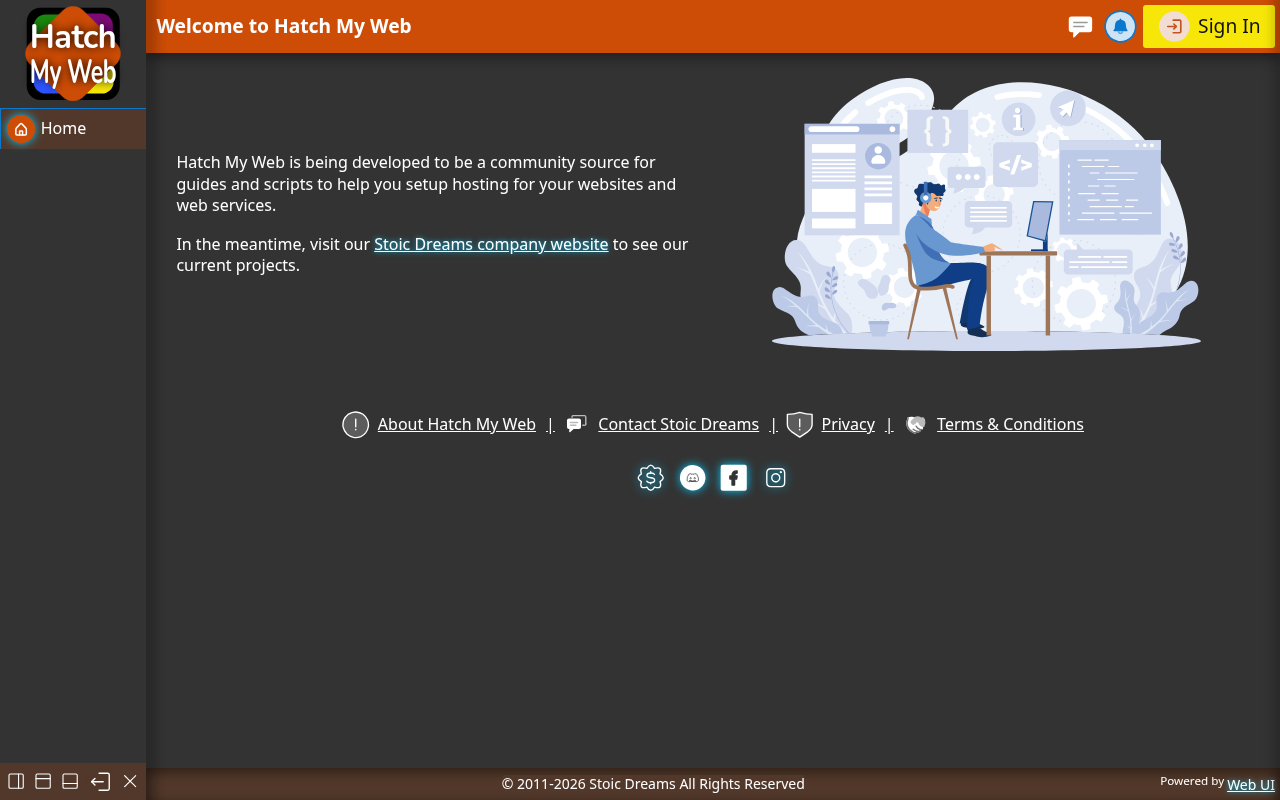
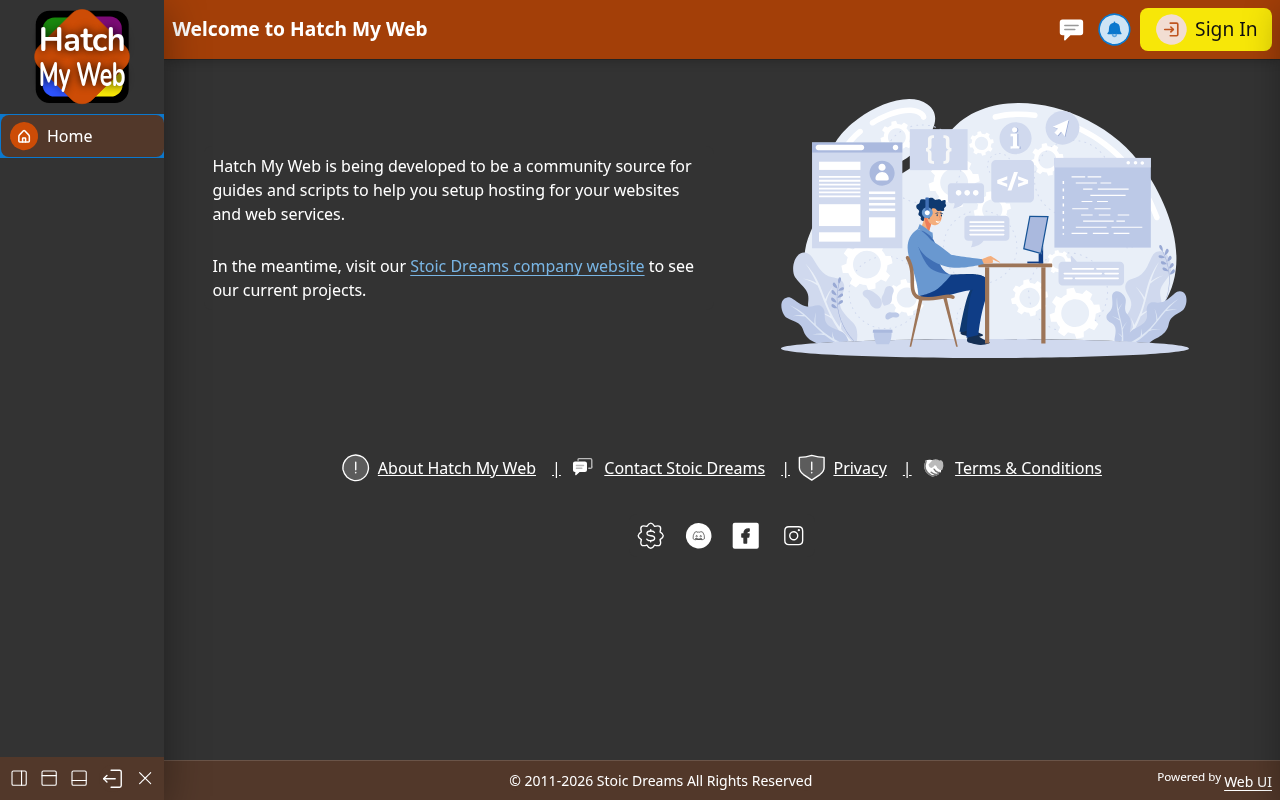
Load Web UI from the local MyFiCDN server on localhost Feature: On localhost the site loads Web UI from http://localhost:3180, and from cdn.myfi.ws everywhere else

diff --git a/webapp/root_files/service-worker.min.js b/webapp/root_files/service-worker.min.js
@@ -1,1 +1,1 @@
-self.addEventListener("install",t=>t.waitUntil(onInstall(t))),self.addEventListener("activate",t=>t.waitUntil(onActivate(t))),self.addEventListener("fetch",t=>{const e=new URL(t.request.url);e.protocol==="ipc:"||e.protocol==="tauri:"||e.hostname==="ipc.localhost"||e.hostname==="tauri.localhost"||e.hostname.startsWith("127")||e.hostname==="localhost"||t.request.url.startsWith("http")&&allowCache(t.request)&&t.respondWith(onFetch(t))});const currentVersion="0.1.18",cacheNamePrefix="offline-cache-",cacheName=`${cacheNamePrefix}${currentVersion}`;async function onInstall(t){self.skipWaiting()}async function onActivate(t){const e=await caches.keys();await Promise.all(e.filter(a=>a.startsWith(cacheNamePrefix)&&a!==cacheName).map(a=>caches.delete(a))),await self.clients.claim()}async function onFetch(t){const e=await caches.open(cacheName);let a;try{a=await fetch(applyCacheBusting(t.request))}catch(n){const c=await e.match(t.request);if(c)return c;throw n}return a.ok?(t.waitUntil(e.put(t.request,a.clone()).catch(()=>{})),a):await e.match(t.request)||a}function applyCacheBusting(t){try{const e=new URL(t.url);return e.searchParams.set("_",Date.now()),new Request(e.toString(),t)}catch{return t}}function allowCache(t){return!(t.method!=="GET"||t.mode==="navigate")}
+self.addEventListener("install",t=>t.waitUntil(onInstall(t))),self.addEventListener("activate",t=>t.waitUntil(onActivate(t))),self.addEventListener("fetch",t=>{const e=new URL(t.request.url);e.protocol==="ipc:"||e.protocol==="tauri:"||e.hostname==="ipc.localhost"||e.hostname==="tauri.localhost"||e.hostname.startsWith("127")||e.hostname==="localhost"||t.request.url.startsWith("http")&&allowCache(t.request)&&t.respondWith(onFetch(t))});const currentVersion="0.1.19",cacheNamePrefix="offline-cache-",cacheName=`${cacheNamePrefix}${currentVersion}`;async function onInstall(t){self.skipWaiting()}async function onActivate(t){const e=await caches.keys();await Promise.all(e.filter(a=>a.startsWith(cacheNamePrefix)&&a!==cacheName).map(a=>caches.delete(a))),await self.clients.claim()}async function onFetch(t){const e=await caches.open(cacheName);let a;try{a=await fetch(applyCacheBusting(t.request))}catch(n){const c=await e.match(t.request);if(c)return c;throw n}return a.ok?(t.waitUntil(e.put(t.request,a.clone()).catch(()=>{})),a):await e.match(t.request)||a}function applyCacheBusting(t){try{const e=new URL(t.url);return e.searchParams.set("_",Date.now()),new Request(e.toString(),t)}catch{return t}}function allowCache(t){return!(t.method!=="GET"||t.mode==="navigate")}

diff --git a/webapp/index.html b/webapp/index.html
@@ -28,15 +28,18 @@
 	<link rel="dns-prefetch" href="https://api.myfi.ws" />
 	<link rel="preconnect" href="https://cdn.myfi.ws">
 	<link rel="preconnect" href="https://api.myfi.ws">
-	<link href="https://cdn.myfi.ws/css/webui.min.css" rel="preload" as="style" />
-	<link href="https://cdn.myfi.ws/webui/loader.min.js" rel="preload" as="script" />
 
 	<link href="Logo.svg" rel="icon" type="image/svg+xml" sizes="any" />
 	<link rel="manifest" href="app.webmanifest">
 
-	<link href="https://cdn.myfi.ws/css/webui.min.css" rel="stylesheet" />
+	<script>
+		// Web UI loads from the local MyFiCDN server (MyFiCDN/PowerShell/RunLocal.ps1) when the site runs on localhost,
+		// so framework changes show before they are published, and from cdn.myfi.ws everywhere else.
+		window.webuiCdn = /^(localhost|127\.0\.0\.1|\[::1\])$/.test(location.hostname) ? 'http://localhost:3180/' : 'https://cdn.myfi.ws/';
+		document.write('<link href="' + webuiCdn + 'css/webui.min.css" rel="stylesheet" />');
+	</script>
 	<link data-trunk href="css/app.min.css" rel="css" />
-	<script src="https://cdn.myfi.ws/webui/loader.min.js"></script>
+	<script>document.write('<script src="' + webuiCdn + 'webui/loader.min.js"></' + 'script>');</script>
 
 	<link data-trunk href="root_files" rel="copy-dir" />
 	<link data-trunk href="d" rel="copy-dir" data-target-path="d" />

diff --git a/webapp/root_files/service-worker.js b/webapp/root_files/service-worker.js
@@ -20,7 +20,7 @@ self.addEventListener('fetch', event => {
     }
     event.respondWith(onFetch(event))
 });
-const currentVersion = '0.1.18';
+const currentVersion = '0.1.19';
 const cacheNamePrefix = 'offline-cache-';
 const cacheName = `${cacheNamePrefix}${currentVersion}`;
 async function onInstall(event) {

diff --git a/Docs/README.md b/Docs/README.md
@@ -1,6 +1,6 @@
 # Hatch My Web
 
-[Version: 0.1.18](https://github.com/StoicDreams/HatchMyWeb)
+[Version: 0.1.19](https://github.com/StoicDreams/HatchMyWeb)
 
 [WebUI](https://github.com/StoicDreams/WebUI)
 
